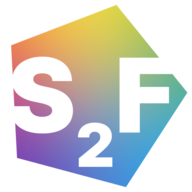
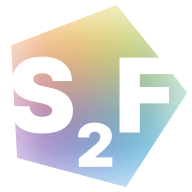
Optimize images

diff --git a/script/icons.js b/script/icons.js
@@ -1,0 +1,39 @@
+import { readFileSync, writeFileSync } from "node:fs";
+import { join } from "node:path";
+import sharp from "sharp";
+import { optimize } from "svgo";
+
+const pentagon = join(".", "assets", "pentagon.svg");
+const smallLogo = join(".", "assets", "s2f.svg");
+
+const outputDirectory = join(".", "public");
+
+try {
+	await Promise.all([
+		sharp(pentagon).resize(32).toFile(join(outputDirectory, "favicon-32.png")),
+		sharp(pentagon).resize(16).toFile(join(outputDirectory, "favicon-16.png")),
+		sharp(smallLogo)
+			.resize(140)
+			.extend({
+				top: 20,
+				bottom: 20,
+				left: 20,
+				right: 20,
+				background: "#000",
+			})
+			.flatten({ background: "#000" })
+			.toFile(join(outputDirectory, "apple-touch-icon.png")),
+		sharp(smallLogo).resize(192).toFile(join(outputDirectory, "icon-192.png")),
+		sharp(smallLogo).resize(512).toFile(join(outputDirectory, "icon-512.png")),
+	]);
+} catch (error) {
+	console.error(error);
+}
+
+writeFileSync(
+	join(outputDirectory, "icon.svg"),
+	optimize(readFileSync(pentagon), {
+		path: pentagon,
+		multipass: true,
+	}).data,
+);
